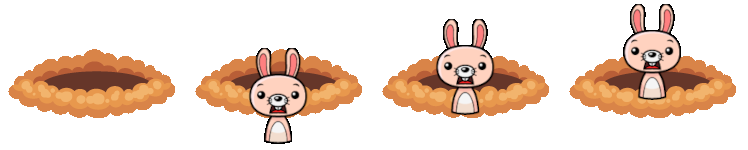
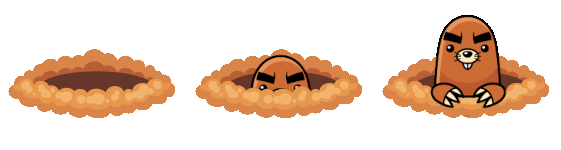
Enemy and hammer implementations

diff --git a/src/commonMain/kotlin/main.kt b/src/commonMain/kotlin/main.kt
@@ -1,15 +1,23 @@
+import com.soywiz.klock.infiniteTimes
+import com.soywiz.klock.milliseconds
 import com.soywiz.klock.seconds
 import com.soywiz.korge.*
+import com.soywiz.korge.input.mouse
+import com.soywiz.korge.input.onClick
+import com.soywiz.korge.time.timers
 import com.soywiz.korge.tween.*
 import com.soywiz.korge.view.*
 import com.soywiz.korim.color.Colors
 import com.soywiz.korim.color.RGBA
 import com.soywiz.korim.format.*
 import com.soywiz.korio.file.std.*
+import com.soywiz.korio.time.traceTime
 import com.soywiz.korma.geom.degrees
 import com.soywiz.korma.interpolation.Easing
+import entity.Enemy
+import entity.Hammer
 
-suspend fun main() = Korge(width = 480, height = 640, title = "2048", bgcolor = RGBA(253, 247, 240)) {
+suspend fun main() = Korge(width = 480, height = 640, title = "Moles Attack", bgcolor = RGBA(253, 247, 240)) {
 
 	val bgImg = resourcesVfs["bg_game.png"].readBitmap()
 	val bg = Image(bgImg)
@@ -17,29 +25,29 @@ suspend fun main() = Korge(width = 480, height = 640, title = "2048", bgcolor = 
 
 	addChild(bg)
 
-	val spriteMap = resourcesVfs["spr_enemy_show.png"].readBitmap()
-	val holeAnimation = SpriteAnimation(
-		spriteMap = spriteMap,
-		spriteWidth = 187,
-		spriteHeight = 150,
-		marginTop = 0,
-		marginLeft = 0,
-		columns = 4,
-		rows = 1,
-		offsetBetweenColumns = 0,
-		offsetBetweenRows = 0,
-	)
+	val hammer = Hammer(this).apply {
+		initialize()
+	}
+
+	onClick {
+		hammer.show(mouseX, mouseY)
+	}
 
 	val qtColumn = 4
 	val qtRow = 4
 	var qtEnemy = qtColumn * qtRow
 
-	val enemyArray = arrayListOf<Sprite>()
+	val enemyArray = arrayListOf<Enemy>()
 
 	repeat(qtEnemy+1) {
-		enemyArray.add(sprite(holeAnimation))
+		val enemy = Enemy(this)
+		enemyArray.add(enemy)
 	}
 
+	var minuteStart = 3
+	var secondStart = 30
+	var minuteIncreaseDificulty = 1
+	var secondGenerateEnemy = 4
 	var currentEnemyX = 0
 	var currentEnemyY = 120
 	val enemyOnRow = 4
@@ -47,11 +55,16 @@ suspend fun main() = Korge(width = 480, height = 640, title = "2048", bgcolor = 
 	val enemyHeight = 100
 	var currentRow = 4
 
+	// Gera inimigos escondidos
 	enemyArray.forEachIndexed { index, sprite ->
+		//sprite.size(enemyWidth, enemyHeight)
+		sprite.initialize()
+		sprite.scale(0.6, 0.6)
 		sprite.position(currentEnemyX, currentEnemyY)
-		sprite.size(enemyWidth, enemyHeight)
+		sprite.hide()
 		currentEnemyX += enemyWidth
-		sprite.playAnimationLooped()
+		//sprite.show()
+		//sprite.playAnimation(spriteDisplayTime = 2.seconds)
 
 		if (index == currentRow) {
 			currentEnemyY += enemyHeight
@@ -59,5 +72,35 @@ suspend fun main() = Korge(width = 480, height = 640, title = "2048", bgcolor = 
 			currentEnemyX = 0
 		}
 	}
+
+	var minutes = 0
+	var seconds = 0
+	var gameOver = false
+
+	val gameTimer = timers.interval(1.seconds) {
+		seconds++
+
+		if (seconds % secondGenerateEnemy == 0) {
+
+		}
+
+		if (seconds == 60) {
+			minutes++
+			seconds = 0
+		}
+	}
+
+	addUpdater {
+		if (gameOver) {
+			gameTimer.close()
+		}
+	}
+
+	text("${minutes}:${seconds}").addUpdater { time ->
+		text = "${minutes}:${seconds}"
+		val scale = time / 16.milliseconds
+	}
+
+
 
 }

diff --git a/src/commonMain/kotlin/entity/Enemy.kt b/src/commonMain/kotlin/entity/Enemy.kt
@@ -1,0 +1,100 @@
+package entity
+
+import com.soywiz.klock.milliseconds
+import com.soywiz.klock.seconds
+import com.soywiz.korge.view.Container
+import com.soywiz.korge.view.Sprite
+import com.soywiz.korge.view.SpriteAnimation
+import com.soywiz.korge.view.addTo
+import com.soywiz.korim.bitmap.Bitmap
+import com.soywiz.korim.format.displayImage
+import com.soywiz.korim.format.readBitmap
+import com.soywiz.korio.file.std.resourcesVfs
+import kotlin.random.Random
+
+class Enemy(
+    private val container: Container
+) : Sprite() {
+
+    var hidingSprite: Bitmap? = null
+    var showAnimation: SpriteAnimation? = null
+    var deadAnimation: SpriteAnimation? = null
+    var hidingAnimation: SpriteAnimation? = null
+    var dead = false
+    var idle = false
+    var animating = false
+    var movmentSpeed = 3
+    var movimentSpeeds = arrayOf(3, 4, 5, 2)
+
+    suspend fun initialize() {
+        val hidingSprite = resourcesVfs["spr_enemy_hiding.png"].readBitmap()
+        val showSprite = resourcesVfs["spr_enemy_show.png"].readBitmap()
+        val deadSprite = resourcesVfs["spr_enemy_dead.png"].readBitmap()
+
+        hidingAnimation = SpriteAnimation(
+            spriteMap = hidingSprite,
+            spriteWidth = 187,
+            spriteHeight = 150,
+            marginTop = 0,
+            marginLeft = 0,
+            columns = 1,
+            rows = 1,
+            offsetBetweenColumns = 0,
+            offsetBetweenRows = 0,
+        )
+
+        showAnimation = SpriteAnimation(
+            spriteMap = showSprite,
+            spriteWidth = 187,
+            spriteHeight = 150,
+            marginTop = 0,
+            marginLeft = 0,
+            columns = 3,
+            rows = 1,
+            offsetBetweenColumns = 0,
+            offsetBetweenRows = 0,
+        )
+
+        deadAnimation = SpriteAnimation(
+            spriteMap = deadSprite,
+            spriteWidth = 187,
+            spriteHeight = 150,
+            marginTop = 0,
+            marginLeft = 0,
+            columns = 2,
+            rows = 1,
+            offsetBetweenColumns = 0,
+            offsetBetweenRows = 0,
+        )
+        addTo(container)
+
+        onAnimationStarted {
+            animating = true
+        }
+
+        onAnimationCompleted {
+            animating = false
+        }
+
+    }
+
+    fun hide() {
+        playAnimation(hidingAnimation, spriteDisplayTime = 0.milliseconds, endFrame = 0, startFrame = 0)
+    }
+
+    fun show() {
+        val randomSpeedIndex = Random.nextInt(0, movimentSpeeds.size)
+        playAnimation(showAnimation, spriteDisplayTime = movimentSpeeds[randomSpeedIndex].seconds)
+    }
+
+    fun kill() {
+        dead = true
+        playAnimation(deadAnimation, spriteDisplayTime = 2.seconds)
+    }
+
+    fun hit() {
+
+    }
+
+
+}

diff --git a/src/commonMain/kotlin/entity/Hammer.kt b/src/commonMain/kotlin/entity/Hammer.kt
@@ -1,0 +1,45 @@
+package entity
+
+import com.soywiz.korge.view.*
+import com.soywiz.korim.format.readBitmap
+import com.soywiz.korio.file.std.resourcesVfs
+import com.soywiz.korma.geom.Point
+
+class Hammer(
+    private val container: Container
+) : Sprite() {
+
+    var showAnimation: SpriteAnimation? = null
+    private val sprWidth = 195
+    private val sprHeight = 182
+    private val sprCenterW = sprWidth/2
+    private val sprCenterH = sprHeight/2
+
+    suspend fun initialize() {
+        val showSprite = resourcesVfs["spr_hammer.png"].readBitmap()
+
+        showAnimation = SpriteAnimation(
+            spriteMap = showSprite,
+            spriteWidth = sprWidth,
+            spriteHeight = sprHeight,
+            marginTop = 0,
+            marginLeft = 0,
+            columns = 4,
+            rows = 1,
+            offsetBetweenColumns = 0,
+            offsetBetweenRows = 0,
+        )
+        onAnimationCompleted {
+            removeFromParent()
+        }
+        scale(0.8, 0.8)
+    }
+
+    fun show(x: Double, y: Double) {
+        addTo(container)
+        position(x-sprCenterW, y-sprCenterH)
+        playAnimation(showAnimation)
+
+    }
+
+}

diff --git a/src/commonMain/kotlin/extensions/TimeExtension.kt b/src/commonMain/kotlin/extensions/TimeExtension.kt
@@ -1,0 +1,25 @@
+package extensions
+
+import com.soywiz.klock.seconds
+import com.soywiz.korge.time.TimerComponents
+
+fun TimerComponents.countDownTimer(minuteStart: Int, secondStart: Int, block: (Int, Int) -> Unit) {
+    var minutes = minuteStart
+    var seconds = secondStart
+    var stopCount = false
+    this.interval(1.seconds) {
+        if (!stopCount) {
+            seconds--
+            if (seconds == 0) {
+                minutes--
+                seconds = 59
+            }
+            if (minutes < 0) {
+                stopCount = true
+                minutes = 0
+                seconds = 0
+            }
+            block(minutes, seconds)
+        }
+    }
+}
